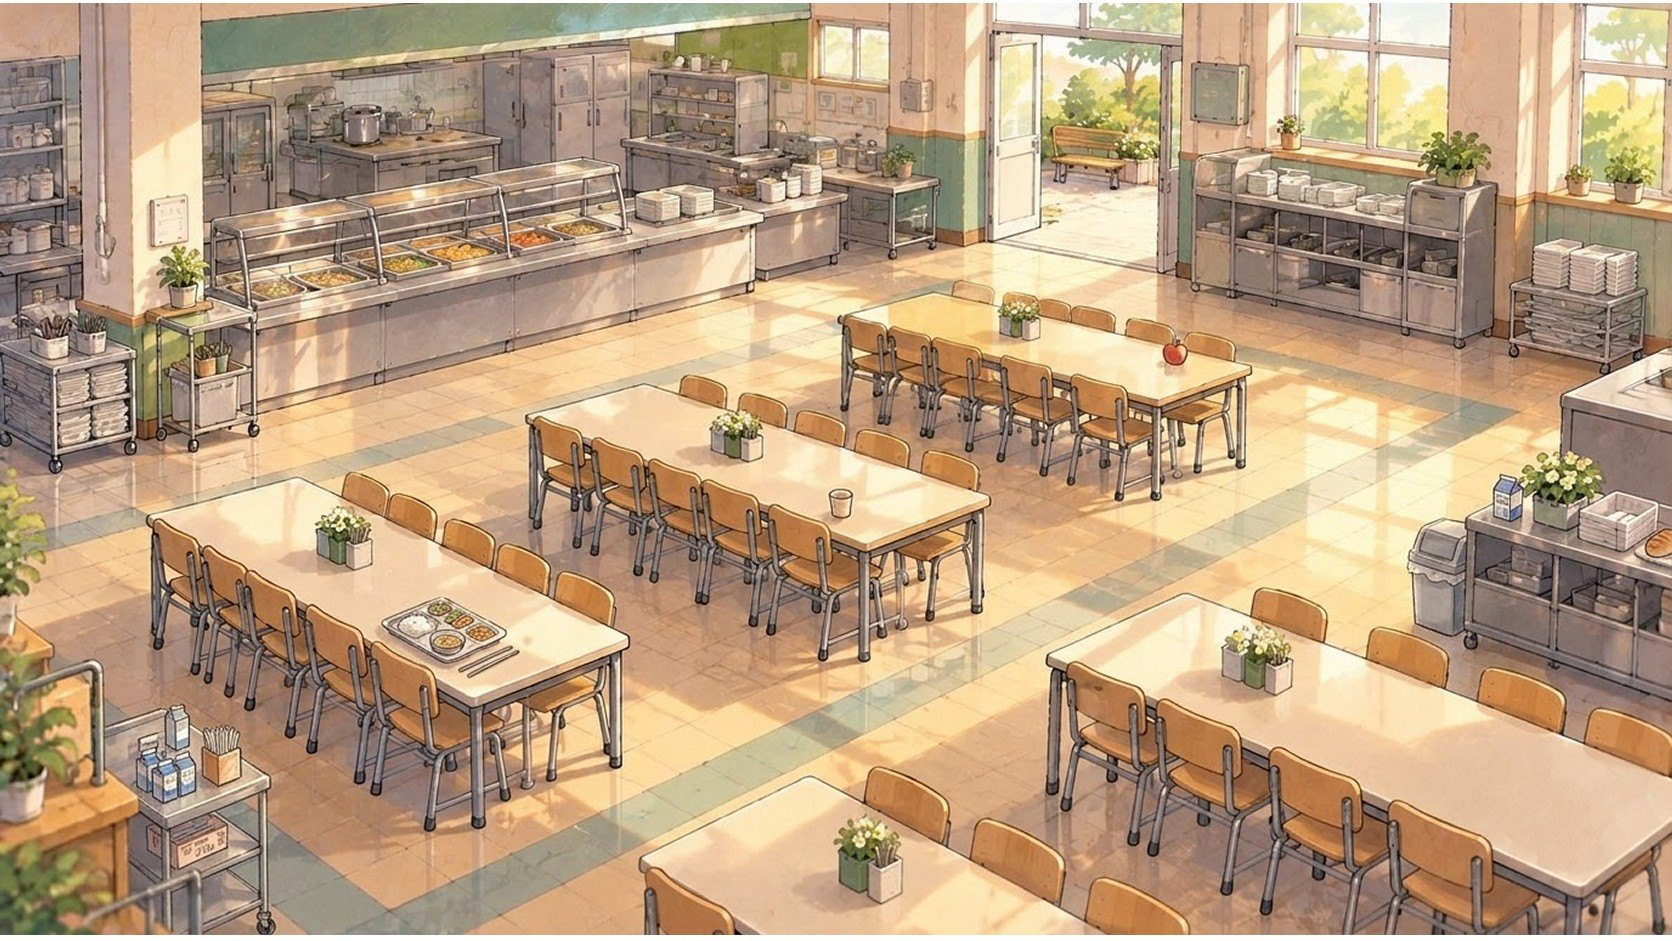
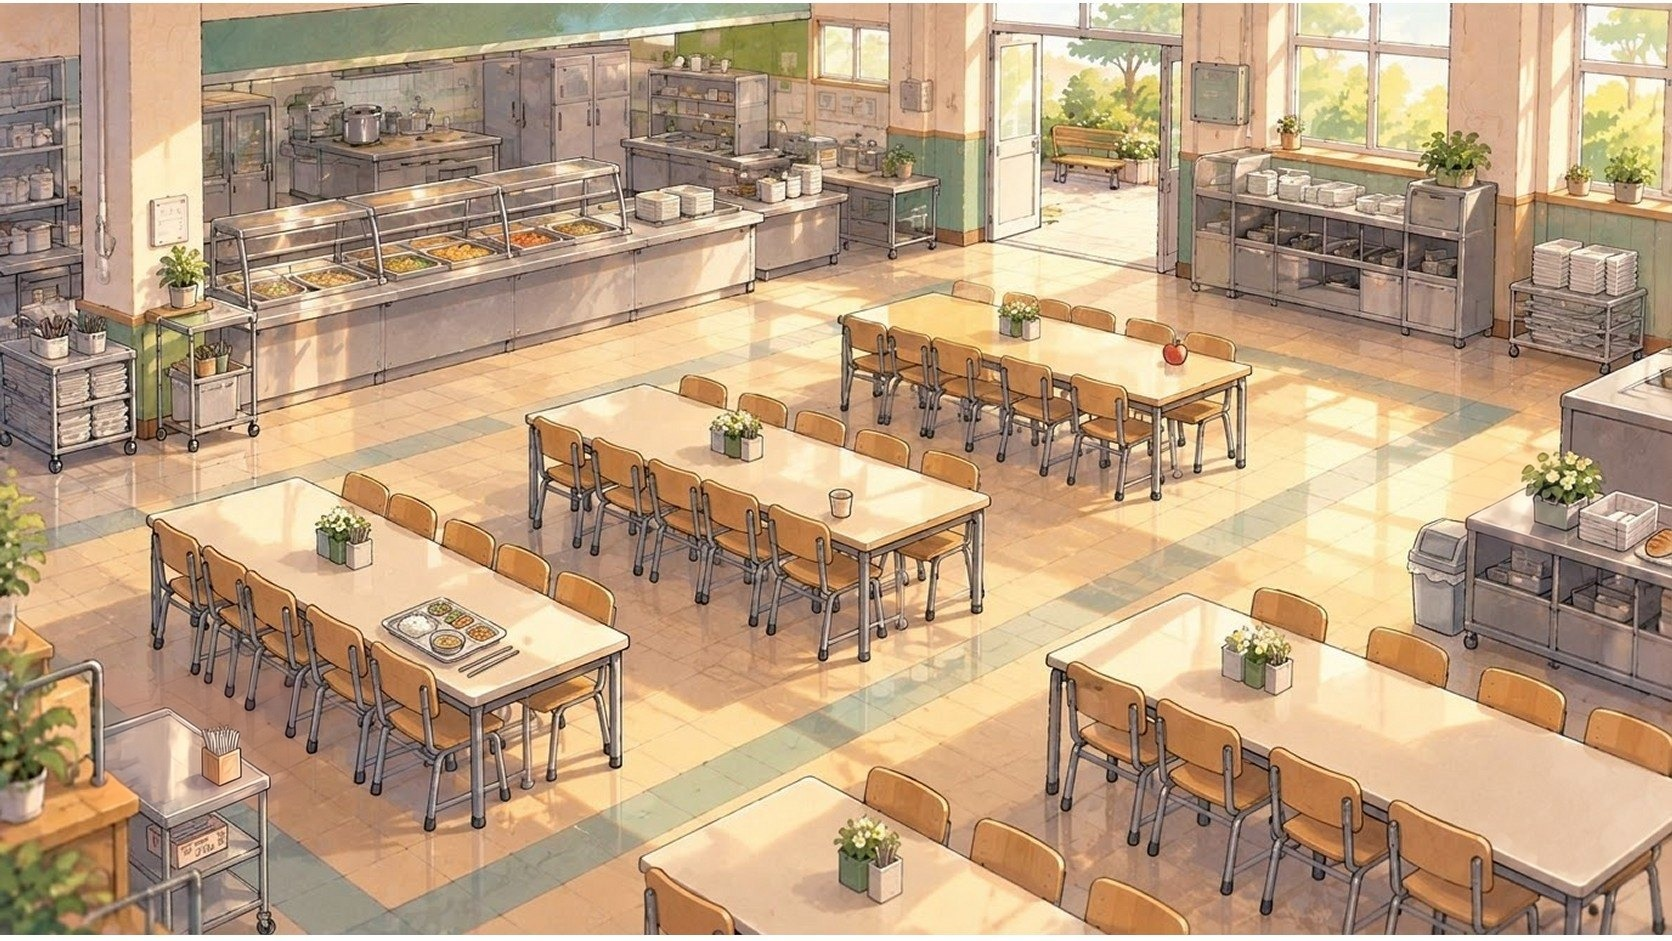
cafeteria maps: drawn milk cartons removed (cart top and right counter, both maps the same); their two milk taps dropped (BUILD 1106211330)

Changed region(s): [[0.0622, 0.7396, 0.1555, 0.8629], [0.8708, 0.4931, 0.933, 0.5855]]

diff --git a/index.html b/index.html
@@ -119,14 +119,14 @@ body,button{word-break:keep-all;overflow-wrap:break-word}
 <div id="fader"></div>
 <script>
 // same address, newest version: if the page this phone has kept is older than the one online, fetch the new one and reopen
-const BUILD='1106210236';
+const BUILD='1106211330';
 try{fetch(location.pathname,{cache:'no-store'}).then(r=>r.text()).then(t=>{const m=t.match(/const BUILD='(\d+)'/);if(m&&m[1]!==BUILD&&sessionStorage.getItem('upd')!==m[1]){sessionStorage.setItem('upd',m[1]);fetch(location.pathname,{cache:'reload'}).then(()=>location.reload())}}).catch(()=>{})}catch(e){}
 </script>
-<script src="i18n.js?v=1106210236"></script>
-<script src="i18n_prologue_v2.js?v=1106210236"></script>
-<script src="day2/i18n_engine.js?v=1106210236"></script>
-<script src="day2/data.js?v=1106210236"></script>
-<script src="day3/data.js?v=1106210236"></script>
+<script src="i18n.js?v=1106211330"></script>
+<script src="i18n_prologue_v2.js?v=1106211330"></script>
+<script src="day2/i18n_engine.js?v=1106211330"></script>
+<script src="day2/data.js?v=1106211330"></script>
+<script src="day3/data.js?v=1106211330"></script>
 <script>
 // ---------- data ----------
 const MW=1672,MH=941,KID=180;
@@ -547,34 +547,34 @@ function pickHero(){const m=document.getElementById('modal'),c=document.getEleme
  c.innerHTML=`<h2>${tr('전학생 반장되기')}</h2><p>${tr('한국말이 아직 서툰 전학생,<br>반장 선거에 나가다.')}</p><p style="margin-top:14px">${tr('누구로 할까요?')}</p>${(()=>{const s=loadSave();return s&&s.day>=2&&s.mode===UI+'-'+LANG?`<p><button class="big" id="cont">${tr('{n}일차부터 이어 하기').replace('{n}',s.day)}</button></p>`:''})()}<div class="pick heroes"><button data-h="hero_f"><img src="faces/hero_f_smile.jpg" alt="여자 주인공">${heroName(1)}</button><button data-h="hero_m"><img src="faces/hero_m_smile.jpg" alt="남자 주인공">${heroName(0)}</button></div>`;
  m.classList.add('on');{const cb=document.getElementById('cont');if(cb)cb.onclick=()=>{const s=loadSave();HERO=s.hero;Object.assign(HEART,s.heart||{});(s.found||[]).forEach(k=>FOUND.add(k));HEART_D1={...HEART};chime();(typeof contGame==='function'?contGame(s):startDay(Math.min(s.day,Object.keys(window.D3||{}).length?3:2)))}}c.querySelectorAll('.pick button').forEach(b=>b.onclick=()=>{HERO=b.dataset.h;m.classList.remove('on');chime();bgm('day');load('home_am');say([['nar','','이사 온 다음 날 아침. 아직 풀지 못한 상자들이 쌓여 있다.'],['think','sad','(오늘부터 새 학교야. 여기 말도 아직 서툰데…….)'],['think','smile','({m}한테 인사하고 학교 가야지.)']],morning)})}
 </script>
-<script src="day2/engine.js?v=1106210236"></script>
-<script src="day2/ep_minho.js?v=1106210236"></script>
-<script src="day2/meet.js?v=1106210236"></script>
-<script src="day2/ep_sua.js?v=1106210236"></script>
-<script src="day2/ep_hangyeol.js?v=1106210236"></script>
-<script src="day2/ep_siwoo.js?v=1106210236"></script>
-<script src="day2/ep_haram.js?v=1106210236"></script>
-<script src="day2/ep_jiho.js?v=1106210236"></script>
-<script src="day2/ep_hyeeun.js?v=1106210236"></script>
-<script src="day2/ep_haneul.js?v=1106210236"></script>
-<script src="day2/ep_junho.js?v=1106210236"></script>
-<script src="day2/ep_yuna.js?v=1106210236"></script>
-<script src="day2/ep_yena.js?v=1106210236"></script>
-<script src="day2/ep_haeun.js?v=1106210236"></script>
-<script src="day2/ep_youngmin.js?v=1106210236"></script>
-<script src="day2/ep_seah.js?v=1106210236"></script>
-<script src="day2/ep_jihoon.js?v=1106210236"></script>
-<script src="words_ja_ru.js?v=1106210236"></script>
-<script src="day2/mybag.js?v=1106210236"></script>
-<script src="day2/wordpics.js?v=1106210236"></script>
-<script src="day2/spots.js?v=1106210236"></script>
-<script src="day2/textfit.js?v=1106210236"></script>
-<script src="day2/tester.js?v=1106210236"></script>
-<script src="day2/ux.js?v=1106210236"></script>
-<script src="day2/tapword.js?v=1106210236"></script>
-<script src="day2/review.js?v=1106210236"></script>
-<script src="day2/ep_ending.js?v=1106210236"></script>
-<script src="day2/ending.js?v=1106210236"></script>
+<script src="day2/engine.js?v=1106211330"></script>
+<script src="day2/ep_minho.js?v=1106211330"></script>
+<script src="day2/meet.js?v=1106211330"></script>
+<script src="day2/ep_sua.js?v=1106211330"></script>
+<script src="day2/ep_hangyeol.js?v=1106211330"></script>
+<script src="day2/ep_siwoo.js?v=1106211330"></script>
+<script src="day2/ep_haram.js?v=1106211330"></script>
+<script src="day2/ep_jiho.js?v=1106211330"></script>
+<script src="day2/ep_hyeeun.js?v=1106211330"></script>
+<script src="day2/ep_haneul.js?v=1106211330"></script>
+<script src="day2/ep_junho.js?v=1106211330"></script>
+<script src="day2/ep_yuna.js?v=1106211330"></script>
+<script src="day2/ep_yena.js?v=1106211330"></script>
+<script src="day2/ep_haeun.js?v=1106211330"></script>
+<script src="day2/ep_youngmin.js?v=1106211330"></script>
+<script src="day2/ep_seah.js?v=1106211330"></script>
+<script src="day2/ep_jihoon.js?v=1106211330"></script>
+<script src="words_ja_ru.js?v=1106211330"></script>
+<script src="day2/mybag.js?v=1106211330"></script>
+<script src="day2/wordpics.js?v=1106211330"></script>
+<script src="day2/spots.js?v=1106211330"></script>
+<script src="day2/textfit.js?v=1106211330"></script>
+<script src="day2/tester.js?v=1106211330"></script>
+<script src="day2/ux.js?v=1106211330"></script>
+<script src="day2/tapword.js?v=1106211330"></script>
+<script src="day2/review.js?v=1106211330"></script>
+<script src="day2/ep_ending.js?v=1106211330"></script>
+<script src="day2/ending.js?v=1106211330"></script>
 <script>
 // the goal shows big for a few seconds, then folds into a small pill (tap it to open it again)
 {const g=document.getElementById('goal');let t=null;const big=()=>{g.classList.remove('mini');clearTimeout(t);t=setTimeout(()=>g.classList.add('mini'),4000)};

diff --git a/day2/engine.js b/day2/engine.js
@@ -32,7 +32,7 @@ const NATIVE_BY={2:{
   ['hoodie',1405,675,38],['curtain',1600,230,60]].concat(BAGS),
  hall:[['bag',645,255,30],['radio',720,548,30],['battery',700,588,12],['umbrella',210,620,40],['ice',1175,585,26],['ice',1130,610,18],['locker',1240,470,80],['locker',970,195,40],['bench',655,320,50],['bench',715,560,60]],
  field:[['ball',460,540,24],['flag',1595,325,28],['whistle',1385,278,16],['stopwatch',1385,770,16],['bandage',1415,752,16],['cup',78,718,14],['bench',1400,778,50],['bench',60,728,50],['bench',790,150,40],['bench',900,135,40]],
- cafe:[['tray',440,625,34],['chopsticks',487,660,16],['trash_can',1440,570,40],['milk_carton',1505,500,18],['bread',1655,540,20],['cart',195,775,60],['straw',222,735,14],['milk_carton',175,770,14],
+ cafe:[['tray',440,625,34],['chopsticks',487,660,16],['trash_can',1440,570,40],['bread',1655,540,20],['cart',195,775,60],['straw',222,735,14],
   ['cup',840,505,16],['apple',1175,355,16],['table',390,600,100],['table',760,470,100],['table',1040,355,80],['table',1350,740,110]]}};
 const NATIVE={};
 // tapping a person while finding: Hyeeun's wheelchair (upper part) or its wheel (lower part)
